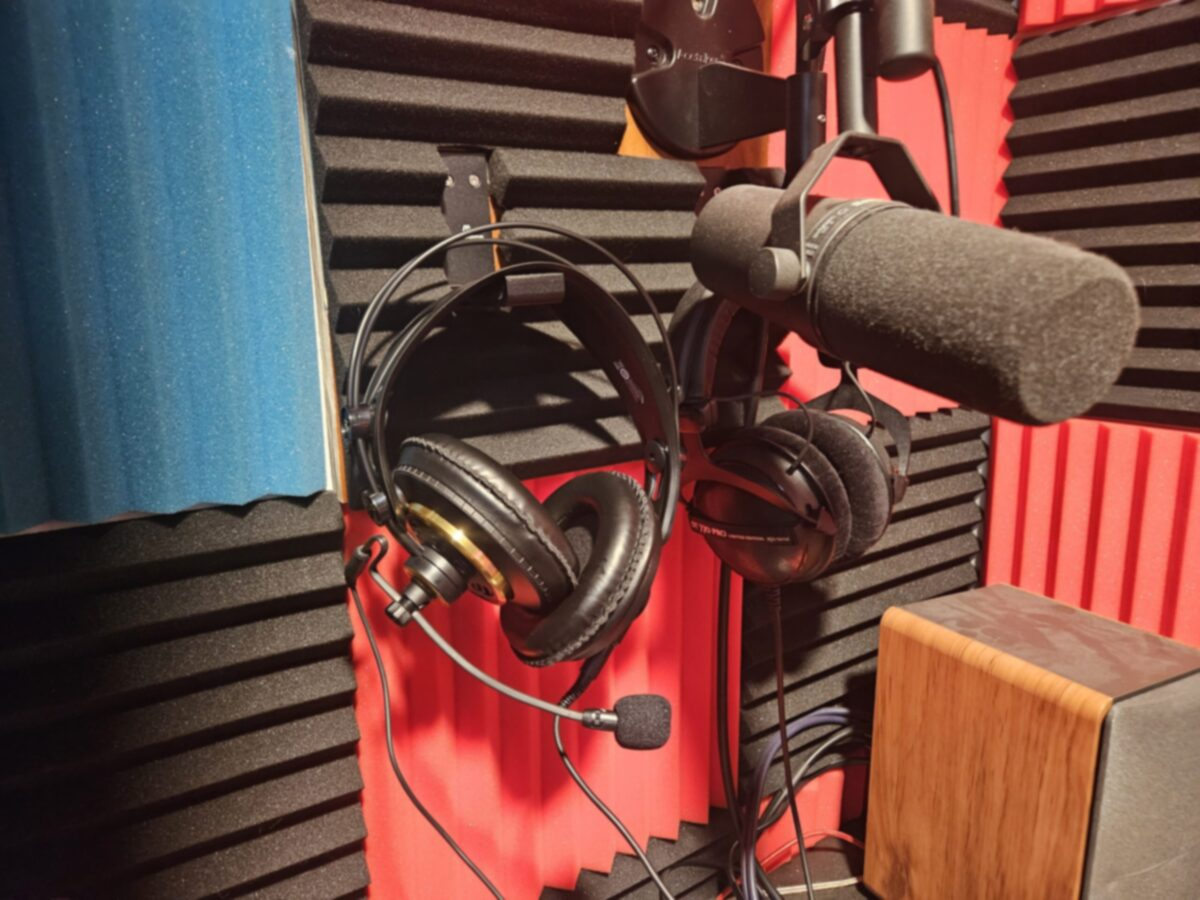
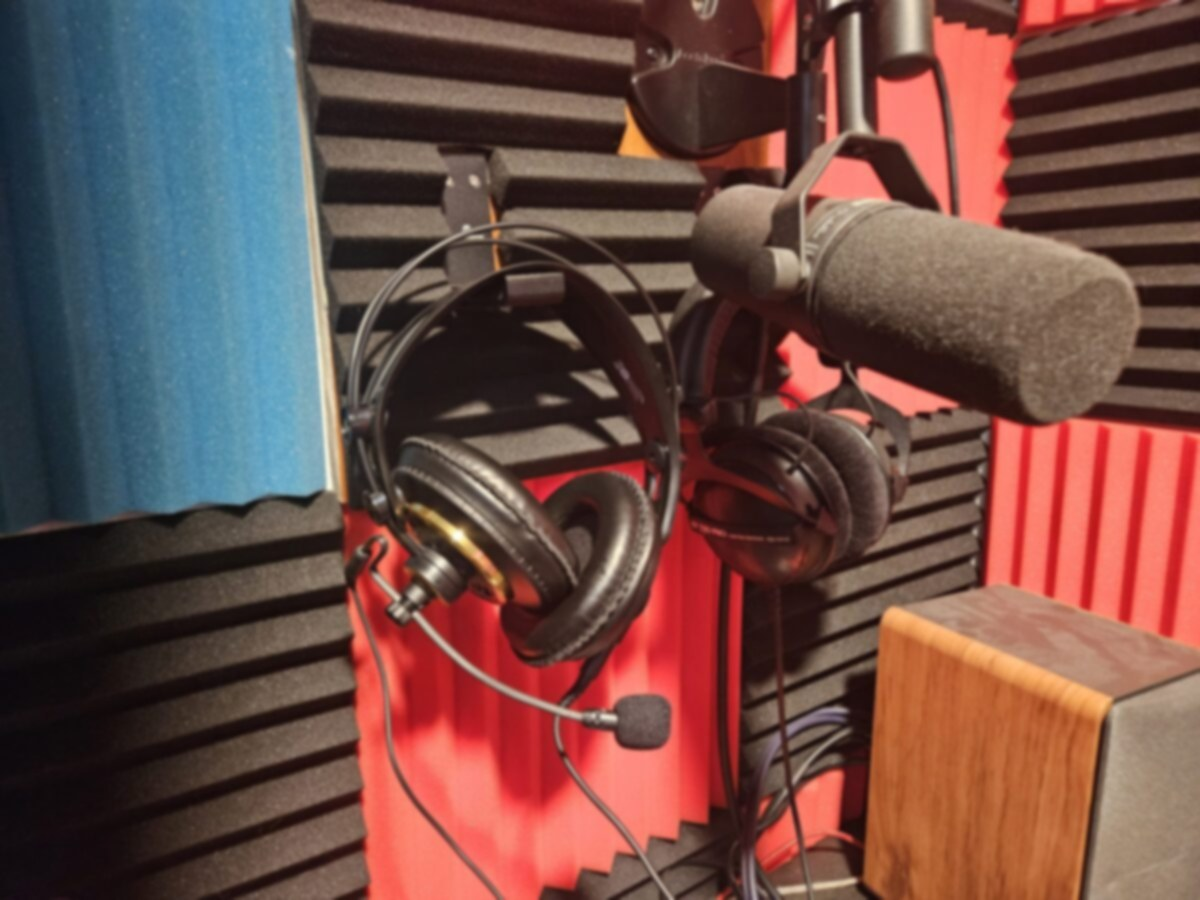
Publish the six migrated WordPress posts (#325)
* Publish the six migrated WordPress posts (#322)

Flip draft to false on six migrated posts, add their old upload redirects to data/legacy_uploads.json, and normalize their tags to lowercase slugs so check-content passes.

Refs ChiefGyk3D/no-php-no-cry#322

* Fix tests and docs for the published posts (#322)

test-comments now expects the three commented posts in a normal build,
the cutover docs describe the non-empty legacy_uploads.json, and the
Stream Daemon tags are slugs so the tag list sorts the same as the test.

* Record image-rights decision and fit two posts to the page budget (#322)

Owner cleared the five headphone-post product photos on 2026-11-09.
The must-have-tools and headphones featured images get a light denoise
and re-encode, and two headphone body images are recompressed, so both
posts fit the size budget without raising it.

---------

diff --git a/BRAND.md b/BRAND.md
@@ -47,7 +47,7 @@ own records (`brand/ICONS.md`, `brand/approved-assets.txt`).
 | Simple Icons 16.36.0 glyph, Pixelfed | `static/brand/icons/pixelfed.svg` | CC0 1.0 for the icon file, verified 2026-11-05 from the release's own `LICENSE.md` (`brand/ICONS.md`). The mark itself belongs to its owner. |
 | Simple Icons 16.36.0 glyphs, the other eleven (Twitch, YouTube, Kick, Mastodon, Bluesky, TikTok, Instagram, Threads, Discord, Matrix, GitHub) | `static/brand/icons/` | UNVERIFIED per icon. The project-level CC0 1.0 is source context only; do not assume these files are CC0. The marks belong to their owners (`brand/ICONS.md`). |
 | Bitcoin and Ethereum coin marks (Wikimedia Commons) | `static/support/coin-btc.svg`, `static/support/coin-eth.svg` | Marked public domain on Commons; trademark notes apply (`brand/ICONS.md`) |
-| Five product photos in the headphones post bundle: AKG K240 Studio (from AKG), Sahara Gaming Microphone, ABLET boom microphone, audio combo adapter, velour earpads (from Amazon) | `content/posts/best-headphone-microphone-combo-for-office-gaming-and-music-for-under-100/` (`AKG_k240_studio-1024x1024.webp`, `image-2.webp`, `image-3-1024x999.webp`, `51aoLEfu1JS._AC_SL1500_-1024x568.webp`, `91hjiNjEy-L._AC_SL1500_-1004x1024.webp`) | Not licensed by this repository. They belong to their makers or sellers and are outside CC BY 4.0. The post is a draft. |
+| Five product photos in the headphones post bundle: AKG K240 Studio (from AKG), Sahara Gaming Microphone, ABLET boom microphone, audio combo adapter, velour earpads (from Amazon) | `content/posts/best-headphone-microphone-combo-for-office-gaming-and-music-for-under-100/` (`AKG_k240_studio-1024x1024.webp`, `image-2.webp`, `image-3-1024x999.webp`, `51aoLEfu1JS._AC_SL1500_-1024x568.webp`, `91hjiNjEy-L._AC_SL1500_-1004x1024.webp`) | Not licensed by this repository. They belong to their makers or sellers and are outside CC BY 4.0. Reuse in the published post was cleared by the owner on 2026-11-09. |
 
 The Monero badge (`static/support/coin-xmr.svg`) and the Solana badge
 (`static/support/coin-sol.svg`) are plain letter badges drawn for this site, not

diff --git a/docs/cutover.md b/docs/cutover.md
@@ -253,8 +253,8 @@ after the first deploy to the staging host, run
 ### Old image addresses
 
 `data/legacy_uploads.json` is a list of `{"from": "/wp-content/uploads/...",
-"to": "/posts/<slug>/<file>"}` entries and ships empty (`[]`) because the
-migrated posts are private drafts until published. The converter writes the real
+"to": "/posts/<slug>/<file>"}` entries. It holds 23 entries now that six migrated
+posts are published (issue 322); a post still in draft contributes none. The converter writes the real
 list, only for images the migrated posts show, as `legacy-uploads.json` beside
 its page bundles in the (private) output directory. Steps, after the WebP step
 so the targets carry the final names:
@@ -266,12 +266,15 @@ so the targets carry the final names:
    bundles it points at, in the same pull request. The file holds public URL
    paths only, no private text.
 
-The ten migrated posts are drafts, so `data/legacy_uploads.json` stays `[]`
-until they are published: a draft's page bundle is not built in production, and
-a redirect to it would land on a 404. `docs/migration-uploads.md` lists, per
-post, the entries to add back (the file is documentation, the build ignores it).
-Flip a post to `draft: false` and add that post's entries in the same pull
-request, then run `scripts/test-redirects.sh`.
+Six migrated posts were published in issue 322, so `data/legacy_uploads.json`
+now holds 23 entries (the posts' old upload addresses, 3 for the
+community-automation post and 20 for the headphone post; the other four have
+none). A draft's page bundle is not built in production and a redirect to it
+would land on a 404, so a post still in draft contributes no entries.
+`docs/migration-uploads.md` lists, per post, the entries to add (the file is
+documentation, the build ignores it). Flip a post to `draft: false` and add
+that post's entries in the same pull request, then run
+`scripts/test-redirects.sh`.
 
 **Flip these two posts together.** The Twitch-and-Toot post carries
 `supersededBy` pointing to the Stream Daemon post. If Twitch-and-Toot goes live

diff --git a/docs/migration-uploads.md b/docs/migration-uploads.md
@@ -1,6 +1,6 @@
 # Old upload redirects per post
 
-`data/legacy_uploads.json` ships empty (`[]`). The posts are drafts, and a draft's page bundle is not built in production, so a 301 to its image would land on a 404. This file lists the redirects that belong to each post. When the owner flips a post to `draft: false`, add that post's entries to `data/legacy_uploads.json` in the same pull request (a JSON list of `{"from", "to"}` objects), then run `scripts/test-redirects.sh`. This file is documentation only: the build does not read it.
+`data/legacy_uploads.json` holds 23 redirects, for the two published posts whose old images are listed below (3 for the community-automation post, 20 for the headphone post). The other four migrated posts published in issue 322 have no old upload entries. A draft's page bundle is not built in production, so a 301 to its image would land on a 404: when a post is flipped to `draft: false`, add that post's entries to `data/legacy_uploads.json` in the same pull request (a JSON list of `{"from", "to"}` objects), then run `scripts/test-redirects.sh`. This file is documentation only: the build does not read it.
 
 The Twitch-and-Toot post points at the Stream Daemon post with `supersededBy`; see the note in `docs/cutover.md`.
 

diff --git a/content/posts/building-a-strong-online-community-a-guide-to-automating-your-social-media-communications/index.md b/content/posts/building-a-strong-online-community-a-guide-to-automating-your-social-media-communications/index.md
@@ -1,7 +1,7 @@
 ---
 title: "Building a Strong Online Community: A Guide to Automating Your Social Media Communications"
 date: 2023-02-11T16:01:45-05:00
-draft: true
+draft: false
 slug: "building-a-strong-online-community-a-guide-to-automating-your-social-media-communications"
 image: "featured.jpg"
 imageAlt: "A simple flowchart titled Is This A Flowchart? with a blue box reading Is this a flowchart? and an arrow pointing to an orange box reading Yes."
@@ -9,7 +9,7 @@ build:
   publishResources: false
 description: "How I plan to automate announcements across YouTube, Twitch, TikTok, Discord, Mastodon and more, so more time goes to content and community."
 categories: ["Social Media"]
-tags: ["automation", "community", "social media"]
+tags: ["automation", "community", "social-media"]
 syndicate: false
 syndicated:
   mastodon: "https://social.chiefgyk3d.com/@chiefgyk3d/109848121298507973"

diff --git a/content/posts/best-headphone-microphone-combo-for-office-gaming-and-music-for-under-100/index.md b/content/posts/best-headphone-microphone-combo-for-office-gaming-and-music-for-under-100/index.md
@@ -1,7 +1,7 @@
 ---
 title: "Best Headphone & Microphone Combo for Office, Gaming, and Music for Under $100"
 date: 2023-04-01T17:28:54-04:00
-draft: true
+draft: false
 slug: "best-headphone-microphone-combo-for-office-gaming-and-music-for-under-100"
 image: "featured.jpg"
 imageAlt: "Two pairs of headphones, one with a boom microphone, hang on a wall of black acoustic foam beside a large broadcast microphone and a wooden studio monitor."
@@ -9,7 +9,7 @@ build:
   publishResources: false
 description: "A budget headset built from studio headphones, a modular microphone and a few adapters, for work meetings, music and gaming for under $100."
 categories: ["Audio", "Hardware"]
-tags: ["gaming", "headphone", "headset", "IT", "office", "wfh", "work from home"]
+tags: ["gaming", "headphone", "headset", "it", "office", "wfh", "work-from-home"]
 syndicate: false
 affiliate: true
 syndicated:

diff --git a/content/posts/why-i-use-multiple-phones-a-personal-dive-into-device-diversification/index.md b/content/posts/why-i-use-multiple-phones-a-personal-dive-into-device-diversification/index.md
@@ -1,7 +1,7 @@
 ---
 title: "Why I Use Multiple Phones: A Personal Dive into Device Diversification"
 date: 2023-09-22T16:10:55-04:00
-draft: true
+draft: false
 slug: "why-i-use-multiple-phones-a-personal-dive-into-device-diversification"
 image: "featured.jpg"
 imageAlt: "Four smartphones on a desk, one upright on a yellow 3D-printed stand and three lying flat in clear cases, near a keyboard, a mouse and a monitor."
@@ -9,7 +9,7 @@ build:
   publishResources: false
 description: "Why I carry an iPhone, a GrapheneOS Pixel, a Samsung and a Librem 5, and what each one is for."
 categories: ["Hardware"]
-tags: ["android", "cell phone", "ios", "IT", "pixel", "purism"]
+tags: ["android", "cell-phone", "ios", "it", "pixel", "purism"]
 syndicate: false
 syndicated:
   mastodon: "https://social.chiefgyk3d.com/@chiefgyk3d/111110616483869719"

diff --git a/content/posts/improving-indoor-air-quality-with-uv-sanitation-systems-and-high-quality-filters/index.md b/content/posts/improving-indoor-air-quality-with-uv-sanitation-systems-and-high-quality-filters/index.md
@@ -1,7 +1,7 @@
 ---
 title: "Improving Indoor Air Quality with UV Sanitation Systems and High-Quality Filters"
 date: 2023-04-10T14:24:51-04:00
-draft: true
+draft: false
 slug: "improving-indoor-air-quality-with-uv-sanitation-systems-and-high-quality-filters"
 image: "featured.jpg"
 imageAlt: "A blue OdorStop UV Cleaner unit with a warning label mounted on sheet metal air ducts, with foil tape along the bottom."
@@ -9,7 +9,7 @@ build:
   publishResources: false
 description: "My experience with a UV-C light in my HVAC system and room air filters to fight mold and improve indoor air quality."
 categories: ["Health"]
-tags: ["HVAC", "office", "wfh", "work from home"]
+tags: ["hvac", "office", "wfh", "work-from-home"]
 syndicate: false
 affiliate: true
 aliases:

diff --git a/content/posts/open-letter-to-president-biden-about-the-possible-ban-of-tiktok/index.md b/content/posts/open-letter-to-president-biden-about-the-possible-ban-of-tiktok/index.md
@@ -1,7 +1,7 @@
 ---
 title: "Open Letter to President Biden about the Possible Ban of TikTok"
 date: 2023-03-16T15:52:10-04:00
-draft: true
+draft: false
 slug: "open-letter-to-president-biden-about-the-possible-ban-of-tiktok"
 image: "featured.png"
 imageAlt: "The TikTok logo inside a red circle with a diagonal slash, the universal sign for a ban."
@@ -9,7 +9,7 @@ build:
   publishResources: false
 description: "An open letter I wrote in March 2023 about what a possible TikTok ban would mean for creators and small businesses like mine."
 categories: ["Advocacy"]
-tags: ["tiktok", "creators", "open letter"]
+tags: ["tiktok", "creators", "open-letter"]
 syndicate: false
 syndicated:
   mastodon: "https://social.chiefgyk3d.com/@chiefgyk3d/110034703780914443"

diff --git a/content/posts/must-have-tools-for-3d-printing-and-pc-repair-my-recommended-starter-kit/index.md b/content/posts/must-have-tools-for-3d-printing-and-pc-repair-my-recommended-starter-kit/index.md
@@ -1,7 +1,7 @@
 ---
 title: "Must-Have Tools for 3D Printing and PC Repair: My Recommended Starter Kit"
 date: 2023-03-13T19:37:33-04:00
-draft: true
+draft: false
 slug: "must-have-tools-for-3d-printing-and-pc-repair-my-recommended-starter-kit"
 image: "featured.jpg"
 imageAlt: "Screwdriver sets, a precision bit kit in a black roll-up case, hex bit boxes and a cordless screwdriver spread out on a couch."
@@ -9,7 +9,7 @@ build:
   publishResources: false
 description: "The tools I recommend for starting out in 3D printing and PC repair, from a ratcheting screwdriver to thermal paste."
 categories: ["Hardware"]
-tags: ["3d printing", "pc repair", "tools"]
+tags: ["3d-printing", "pc-repair", "tools"]
 syndicate: false
 affiliate: true
 syndicated:

diff --git a/content/posts/stream-daemon-the-secure-open-source-stream-automation-engine-for-modern-creators/index.md b/content/posts/stream-daemon-the-secure-open-source-stream-automation-engine-for-modern-creators/index.md
@@ -9,7 +9,7 @@ build:
 description: "Stream Daemon is a secure, open source engine that watches your live status on streaming platforms and announces it across your social networks."
 archive: true
 categories: ["Open Source"]
-tags: ["stream daemon", "streaming", "automation", "open source"]
+tags: ["stream-daemon", "streaming", "automation", "open-source"]
 syndicate: false
 syndicated:
   mastodon: "https://social.chiefgyk3d.com/@chiefgyk3d/115499302153001935"
